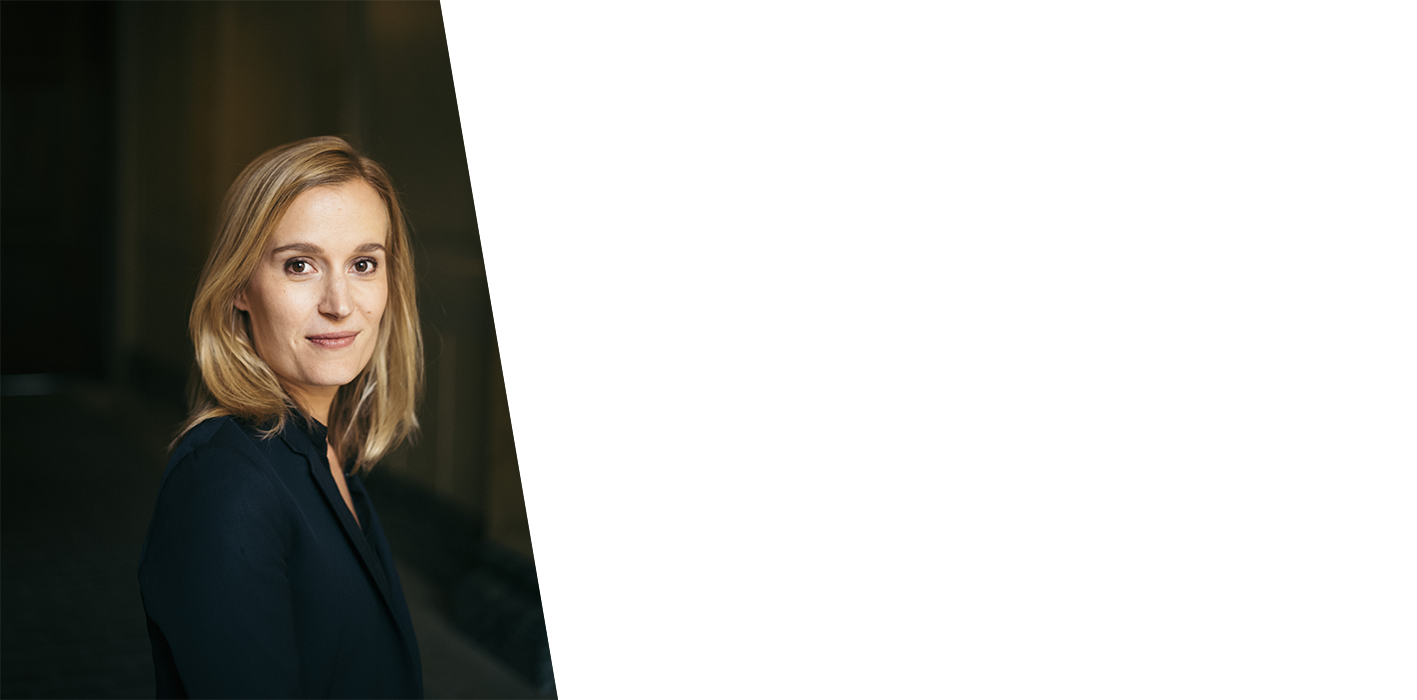
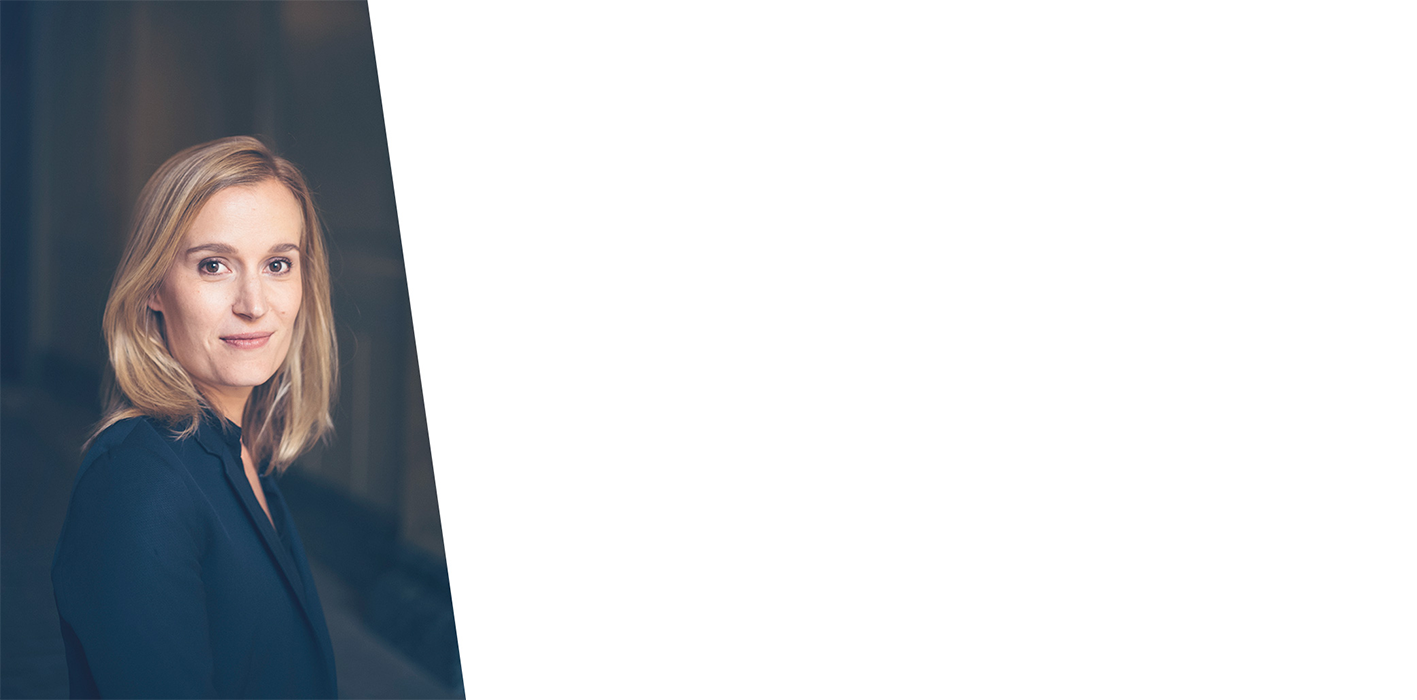
change design on tablet device

diff --git a/app/assets/stylesheets/pages/_team.scss b/app/assets/stylesheets/pages/_team.scss
@@ -1,5 +1,5 @@
 .team-description {
-  width: 65%;
+  width: 70%;
   margin: auto;
   padding-top: 30px;
   padding-bottom: 30px;
@@ -43,17 +43,7 @@
   background-image: image-url("clem.png");
   background-size: cover;
   background-repeat: no-repeat;
-  background-position: right top;
-  height: calc(100vh - 74px);
-  display: flex;
-  align-items: center;
-}
-
-.background-team-cam {
-  background-image: image-url("cam.png");
-  background-size: cover;
-  background-repeat: no-repeat;
-  background-position: right top;
+  background-position: left;
   height: calc(100vh - 74px);
   display: flex;
   align-items: center;
@@ -63,6 +53,17 @@
   background-image: image-url("mat.png");
   background-size: cover;
   background-repeat: no-repeat;
+  background-position: right;
+  height: calc(100vh - 74px);
+  display: flex;
+  align-items: center;
+}
+
+.background-team-cam {
+  background-image: image-url("cam.png");
+  background-size: cover;
+  background-repeat: no-repeat;
+  background-position: left;
   height: calc(100vh - 74px);
   display: flex;
   align-items: center;
@@ -76,6 +77,19 @@
   min-height: calc(100vh - 74px);
   display: flex;
   align-items: center;
+}
+
+.team-description-carla-mobile h4 {
+  margin-left: 30%;
+  text-align: right;
+  &:after {
+    left: unset;
+    right: 0%;
+  }
+}
+
+.descriptions-stagiaires .team-description p {
+  padding-right: 0;
 }
 
 .popover a {
@@ -94,7 +108,7 @@
 }
 
 .avatar.anais, .avatar.carla {
-  margin-bottom: -30px;
+  margin-bottom: 0px;
 }
 
 .avatar-clem {
@@ -110,6 +124,7 @@
 @media screen and (max-width: 1367px) {
   .background-presentation {
     height: auto;
+    min-height: 60vh;
   }
   .background-team-clem {
     height: auto;
@@ -119,83 +134,132 @@
   }
   .background-team-cam {
     height: auto;
+    min-height: 60vh;
   }
   .background-team-carla-anais {
-    background-size: auto;
+    // background-size: auto;
     min-height: unset;
+  }
+  .descriptions-stagiaires {
+    padding: unset;
   }
 }
 
-@media screen and (max-width: 1136px) {
+// TABLET
+@media screen and (max-width: 1024px) {
+  .team-description {
+    width: 75%;
+  }
+  .descriptions-stagiaires .team-description {
+    width: 40%;
+  }
+  .background-team-clem {
+    background-image: image-url("clem-tablet.png");
+    background-position: right;
+  }
+  .background-team-mat {
+    background-image: image-url("mat-tablet.png");
+    background-position: left;
+  }
+  .background-team-cam {
+    background-image: image-url("cam-tablet.png");
+    background-position: right;
+  }
+  .descriptions-stagiaires {
+    padding: 0 25px;
+  }
+}
+
+@media screen and (max-width: 992px) {
+  .team-description {
+    width: 82%;
+  }
+  .descriptions-stagiaires .team-description {
+    width: 82%;
+  }
+  .background-team-clem, .background-team-mat, .background-team-cam {
+    background-position: center;
+  }
+  .team-description-mobile p {
+    padding-right: unset;
+  }
+  .descriptions-stagiaires {
+    padding: unset;
+  }
+}
+
+// MOBILE
+@media screen and (max-width: 812px) {
+  .team-description.description-anais {
+    width: 100%;
+    padding-top: 0;
+  }
+  .team-description-anais-mobile {
+    width: 80%;
+    margin: 0 auto;
+  }
+  .team-description.description-carla {
+    width: 100%;
+    padding-top: 0;
+  }
+  .team-description-carla-mobile {
+    width: 80%;
+    margin: 0 auto;
+  }
+}
+
+@media screen and (max-width: 737px) {
   .team-description {
     width: 85%;
   }
-  .background-team-carla-anais {
-    background-image: none;
-  }
-}
-
-@media screen and (max-width: 1136px) {
-  .background-team-clem {
-    background-image: image-url("clem-mobile.jpg");
-  }
-}
-
-@media screen and (max-width: 1136px) {
-  .background-team-mat {
-  background-image: image-url("mat-mobile.png");
-  }
-}
-
-@media screen and (max-width: 1136px) {
   .team-description-mobile {
     width: 65%;
     margin: auto;
   }
-}
-
-@media screen and (max-width: 1136px) {
-  .background-team-mat {
-    background-image: none;
+  .background-team-clem {
+    background-image: image-url("clem-mobile.jpg");
     height: auto;
   }
-}
-
-@media screen and (max-width: 1136px) {
+  .background-team-mat {
+    background-image: image-url("mat-mobile.png");
+    height: auto;
+  }
   .background-team-cam {
     background-image: none;
     height: auto;
   }
-}
-
-@media screen and (max-width: 1136px) {
-  .background-team-clem {
-  background-image: none;
-  height: auto;
+  .background-team-clem, .background-team-mat, .background-team-cam {
+    background-image: none;
   }
 }
 
-@media screen and (max-width: 1136px) {
+@media screen and (max-width: 737px) {
   .team-description {
     width: 100%;
     p {
       padding-right: 0px;
     }
   }
-  .team-description-carla-mobile h4 {
-    // width: 40%;
-    margin-left: 30%;
-    text-align: right;
-    &:after {
-      // width: 30%;
-      left: unset;
-      right: 0%;
-    }
+  .background-team-carla-anais {
+    background-image: none;
+  }
+  .team-description-carla-mobile, .team-description-anais-mobile {
+    width: 80%;
+    margin: 0 auto;
+  }
+  // .avatar-stagiaire {
+  //   display: none;
+  // }
+}
+
+@media screen and (min-width: 992px) {
+  .avatar-stagiaire {
+    display: none;
   }
 }
 
-@media screen and (min-width: 1136px) {
-  .avatar {
+@media screen and (min-width: 737px) {
+  .avatar-avocat{
     display: none;
   }
 }
@@ -205,31 +269,20 @@
     padding-top: 40px;
     padding-bottom: 40px;
   }
-  .team-description-carla-mobile h4 {
-    // width: 40%;
-    // margin-left: 30%;
-    // text-align: right;
-    &:after {
-      width: 20%;
-      // left: unset;
-      // right: 0%;
-    }
-  }
 }
 
 @media screen and (max-height: 600px) {
-  .background-team-clem {
+  .background-team-clem, .background-team-mat {
     height: auto;
   }
-}
-
-@media screen and (max-height: 600px) {
-  .background-team-mat {
-    height: auto;
+  .description-carla, .description-anais {
+    width: 100%;
+    margin: 0 auto;
+  }
+  .team-description-carla-mobile h4:after {
+    width: 20%;
   }
 }
-
-
 
 .collab {
   padding-bottom: 50px;

diff --git a/app/assets/stylesheets/pages/_presentation.scss b/app/assets/stylesheets/pages/_presentation.scss
@@ -2,6 +2,7 @@
   background-image: image-url("presentation-img.png");
   background-size: cover;
   background-repeat: no-repeat;
+  background-position: bottom;
   display: flex;
   align-items: center;
   height: 80vh;
@@ -59,7 +60,7 @@
   }
 }
 
-@media screen and (max-width: 1136px) {
+@media screen and (max-width: 737px) {
   .background-presentation {
   background-image: none;
   height: auto;

diff --git a/app/assets/stylesheets/pages/_contact.scss b/app/assets/stylesheets/pages/_contact.scss
@@ -94,6 +94,12 @@
   }
 }
 
+@media screen and (min-width: 1136px) {
+  .avatar-contact {
+    display: none;
+  }
+}
+
 @media screen and (max-width: 1136px) {
   .card-contact {
     background-image: none;

diff --git a/app/assets/stylesheets/layout/_utilities.scss b/app/assets/stylesheets/layout/_utilities.scss
@@ -54,7 +54,7 @@ p, h1, h2, h3, h4, h5 {
   margin: auto;
 }
 
-@media screen and (min-width: 1136px) {
+@media screen and (min-width: 960px) {
   .d-flex {
     display: flex;
     flex-flow: row-reverse;
